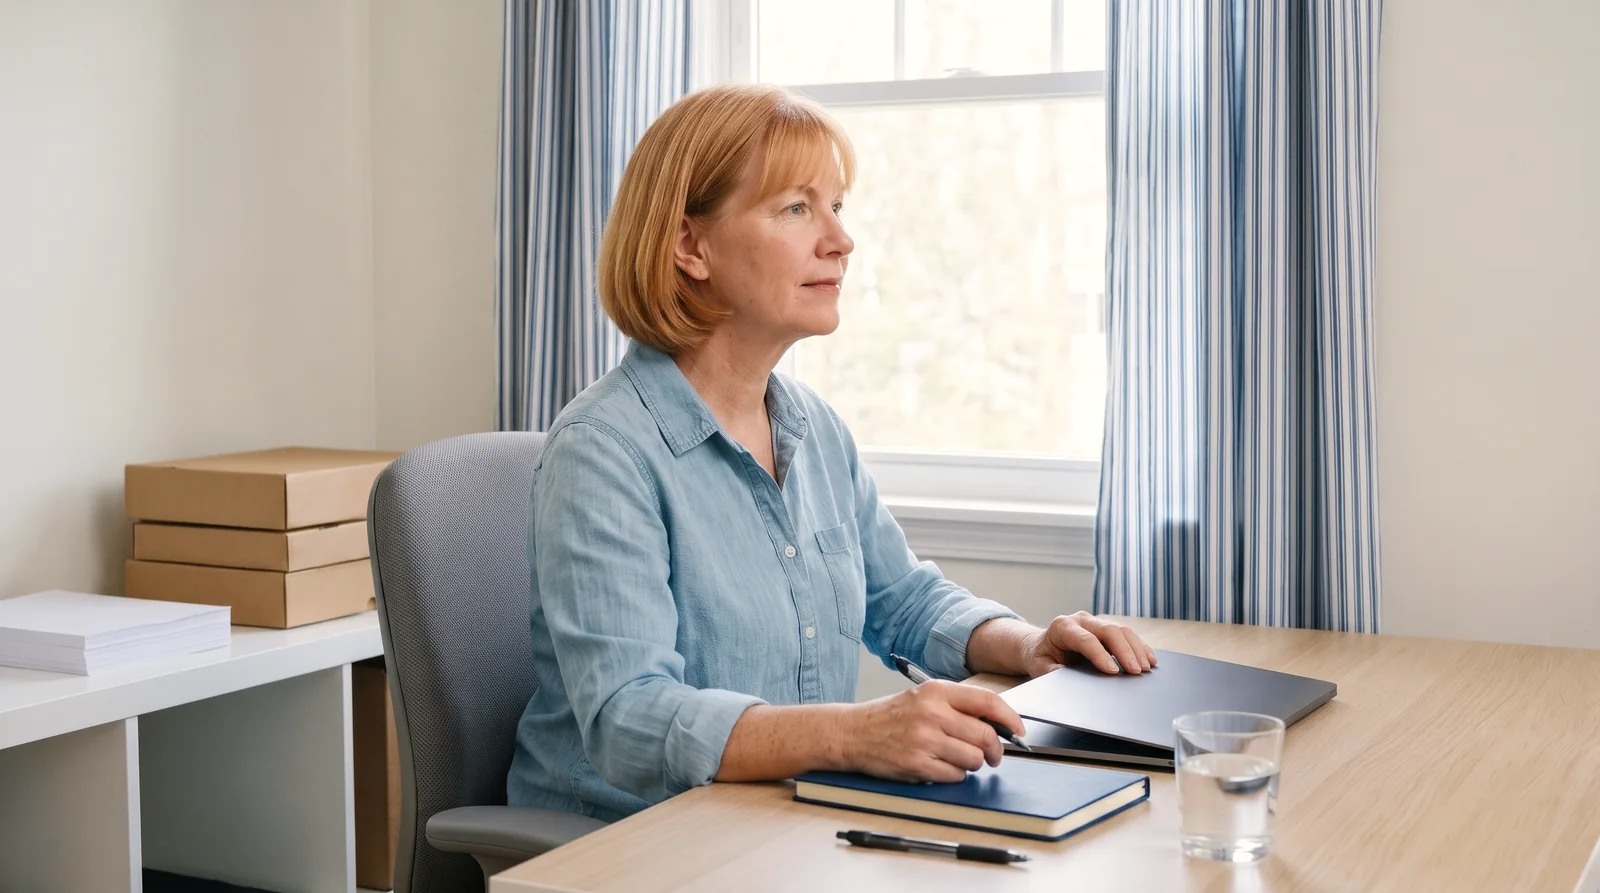
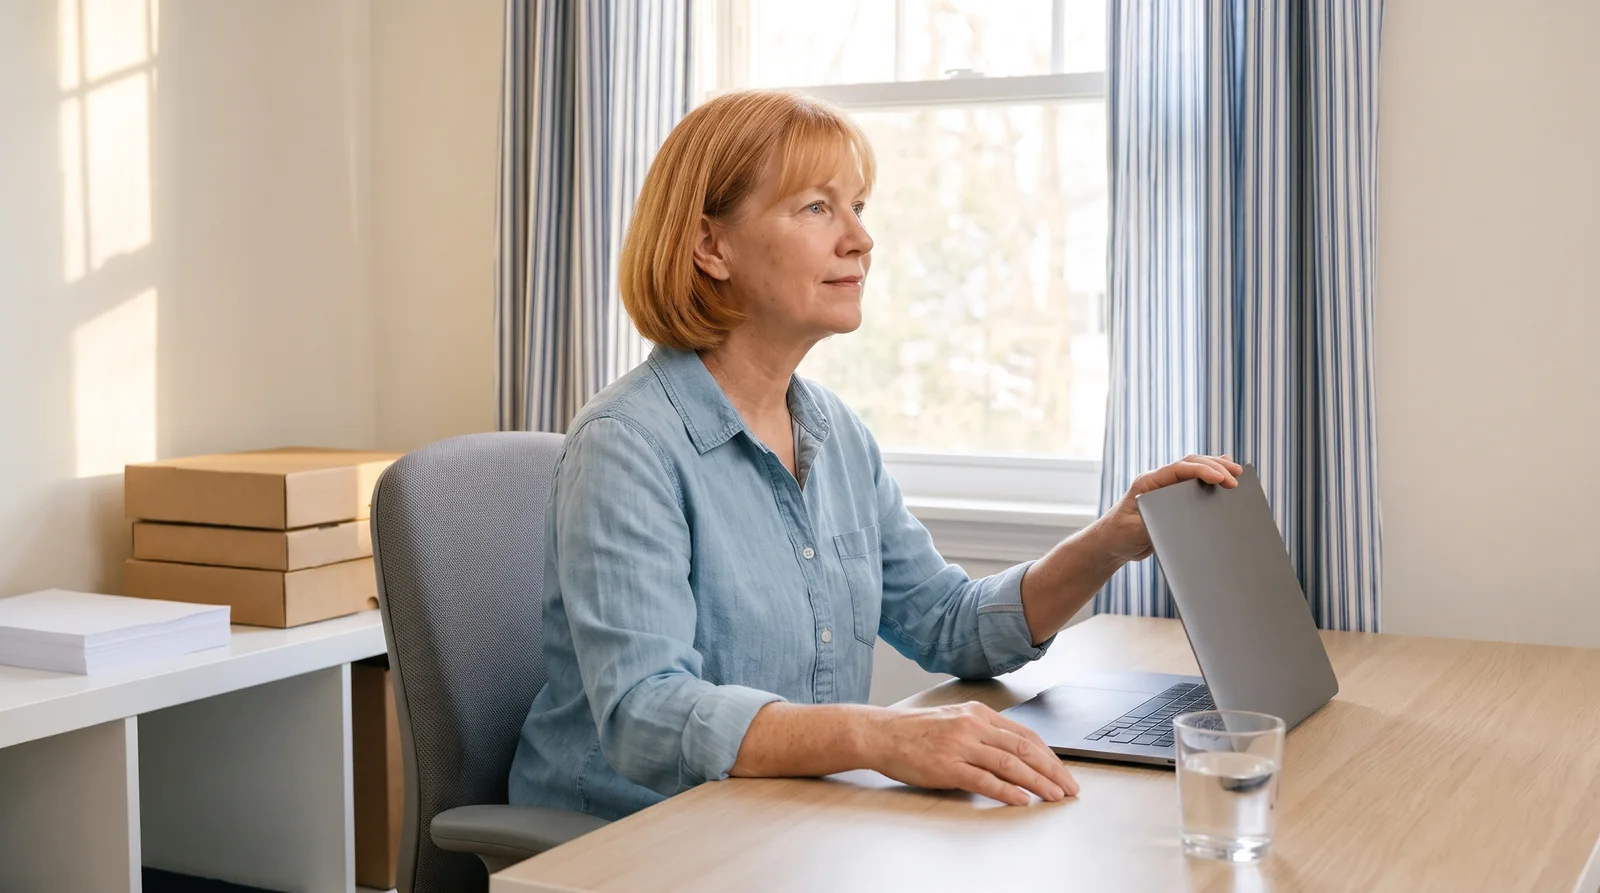
photos: ebay-balance-payout-change recheck fixes

diff --git a/blog-pipeline/photos-completed/ebay-balance-payout-change.md b/blog-pipeline/photos-completed/ebay-balance-payout-change.md
@@ -36,3 +36,6 @@ note: "Photo Claude 2026-11-19: 5 frames, one bright home office with blue strip
 - image_url: https://scan.ismyhometoxic.com/blog-images/ebaybalance-freedom-v1.webp
 - placement: final image before the closing CTA
 - completed: 2026-11-19T12:19:00
+
+## Recheck (Photo Claude) 2026-11-20
+Recheck: Freedom redone as a side-profile walk; turning point now closing the laptop with pen set aside (this push was missed on 11/19 and landed 11/21).
